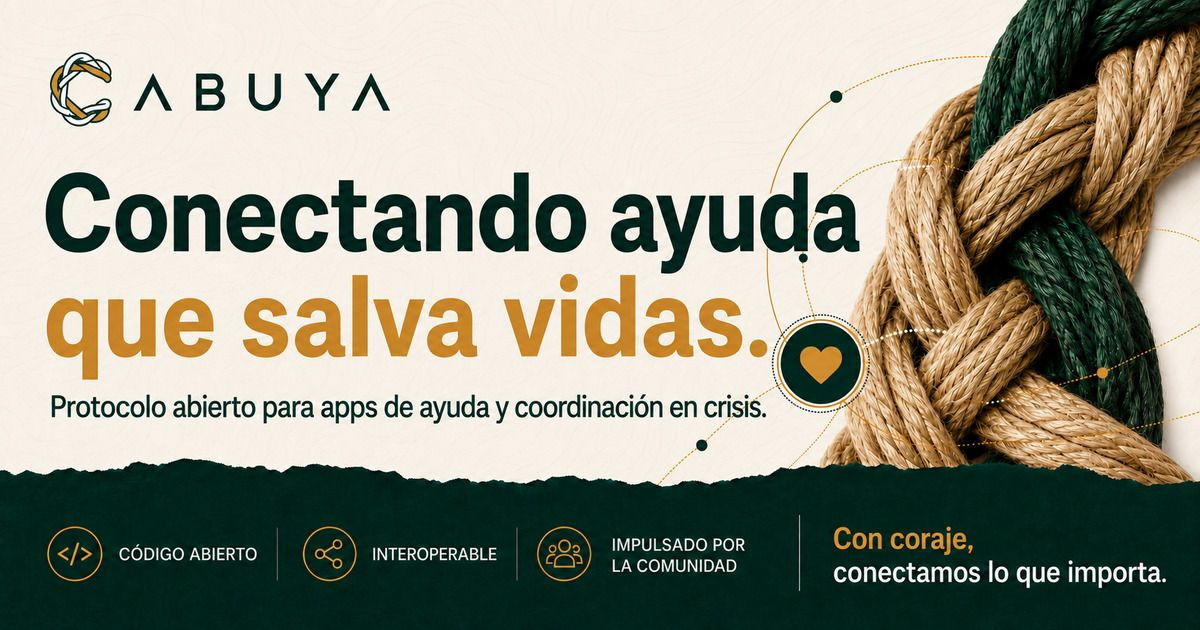
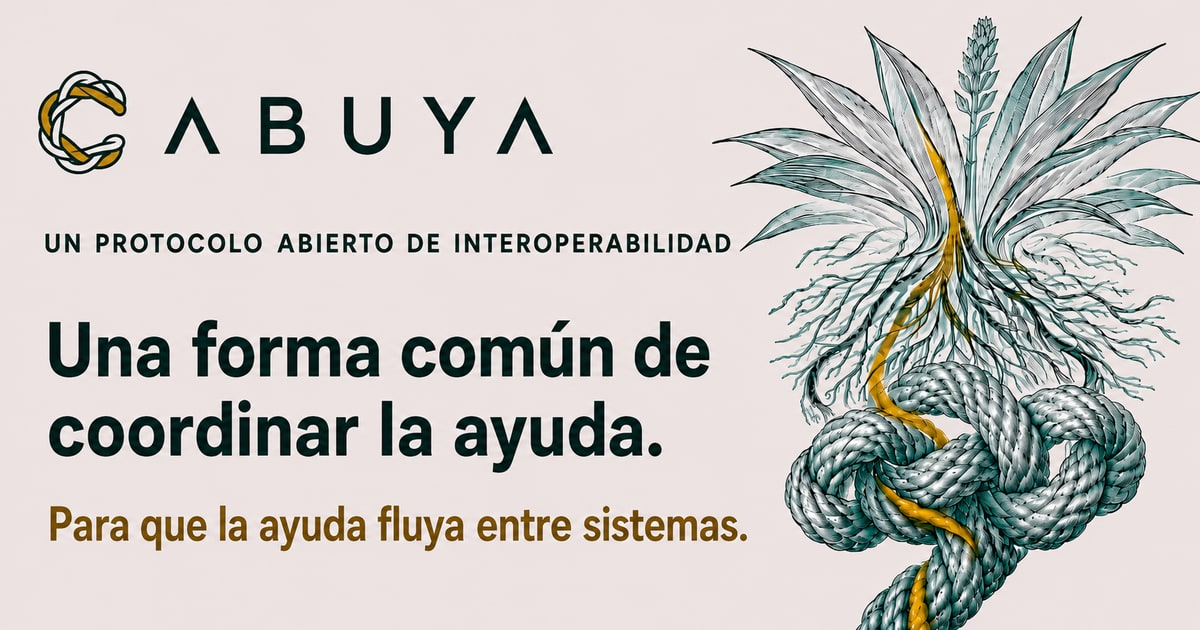
ci(perf): Lighthouse samples two routes; descriptive nav label; new OG cards
Three things one push benefits from together:

Lighthouse in CI drops from eight routes (~5 minutes, the slowest step
in the job) to two — home and the quickstart, the two heaviest
renderers. A sample, not a shrink of the contract: perf:budgets stays
blocking over every route, and the eight-representative-routes run
remains as pnpm run lighthouse:full, with its stale legacy URL list
replaced by the real eight.

The trimmed run immediately caught something the eight-route run on
main would also trip on: the nav entry 'Start' fails Lighthouse's
link-text audit (SEO 0.92 sitewide). Now 'Get started' / 'Primeros
pasos', llms.txt regenerated to match.

The OG share cards are replaced with the new pack art (new-en/new-es →
1200×630 JPEG, 140/148 KB, inside the 300 KB budget and the share-card
test).

Claude-Session: https://claude.ai/code/session_01Ec7yWqsn9fdrTVKyz3k7xu

diff --git a/src/lib/site-navigation.ts b/src/lib/site-navigation.ts
@@ -228,7 +228,7 @@ export const FOOTER_COLUMNS: FooterColumn[] = [
     label: { en: 'Developers', es: 'Desarrolladores' },
     entries: [
       {
-        label: { en: 'Start', es: 'Empezar' },
+        label: { en: 'Get started', es: 'Primeros pasos' },
         path: '/start',
         status: 'live',
       },

diff --git a/docs/PERFORMANCE.md b/docs/PERFORMANCE.md
@@ -16,7 +16,7 @@
 | Registry | ≤ 60 KB JS; table server-rendered; **works with JS disabled** | Public-interest data degrades gracefully |
 | Badge endpoint | < 50 ms p95, `max-age=900, stale-while-revalidate=3600` | A slow badge is a badge people remove |
 | `/api/validate` | < 3 s p50 single-feed run | The quickstart's promise depends on it |
-| Lighthouse CI | ≥ 95 perf / 100 a11y / 100 best-practices / ≥ 95 SEO on the eight representative routes | Advisory on PRs, blocking on main |
+| Lighthouse CI | ≥ 95 perf / 100 a11y / 100 best-practices / ≥ 95 SEO. CI samples two routes (home + quickstart — the two heaviest renderers) so the job stays fast; the eight representative routes run as `pnpm run lighthouse:full` locally and at releases | Advisory on PRs, blocking on main |
 
 ## 2. The rules that keep budgets met
 
